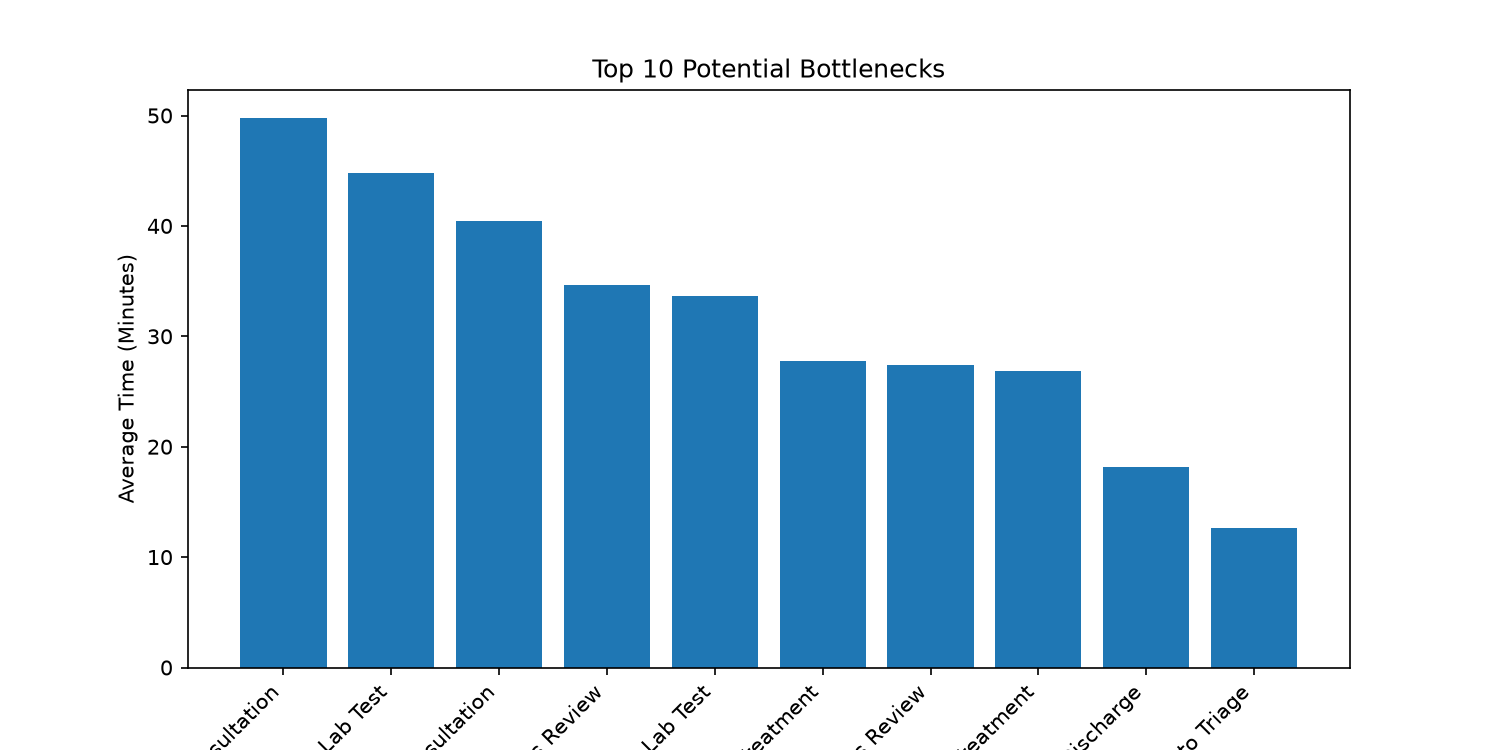
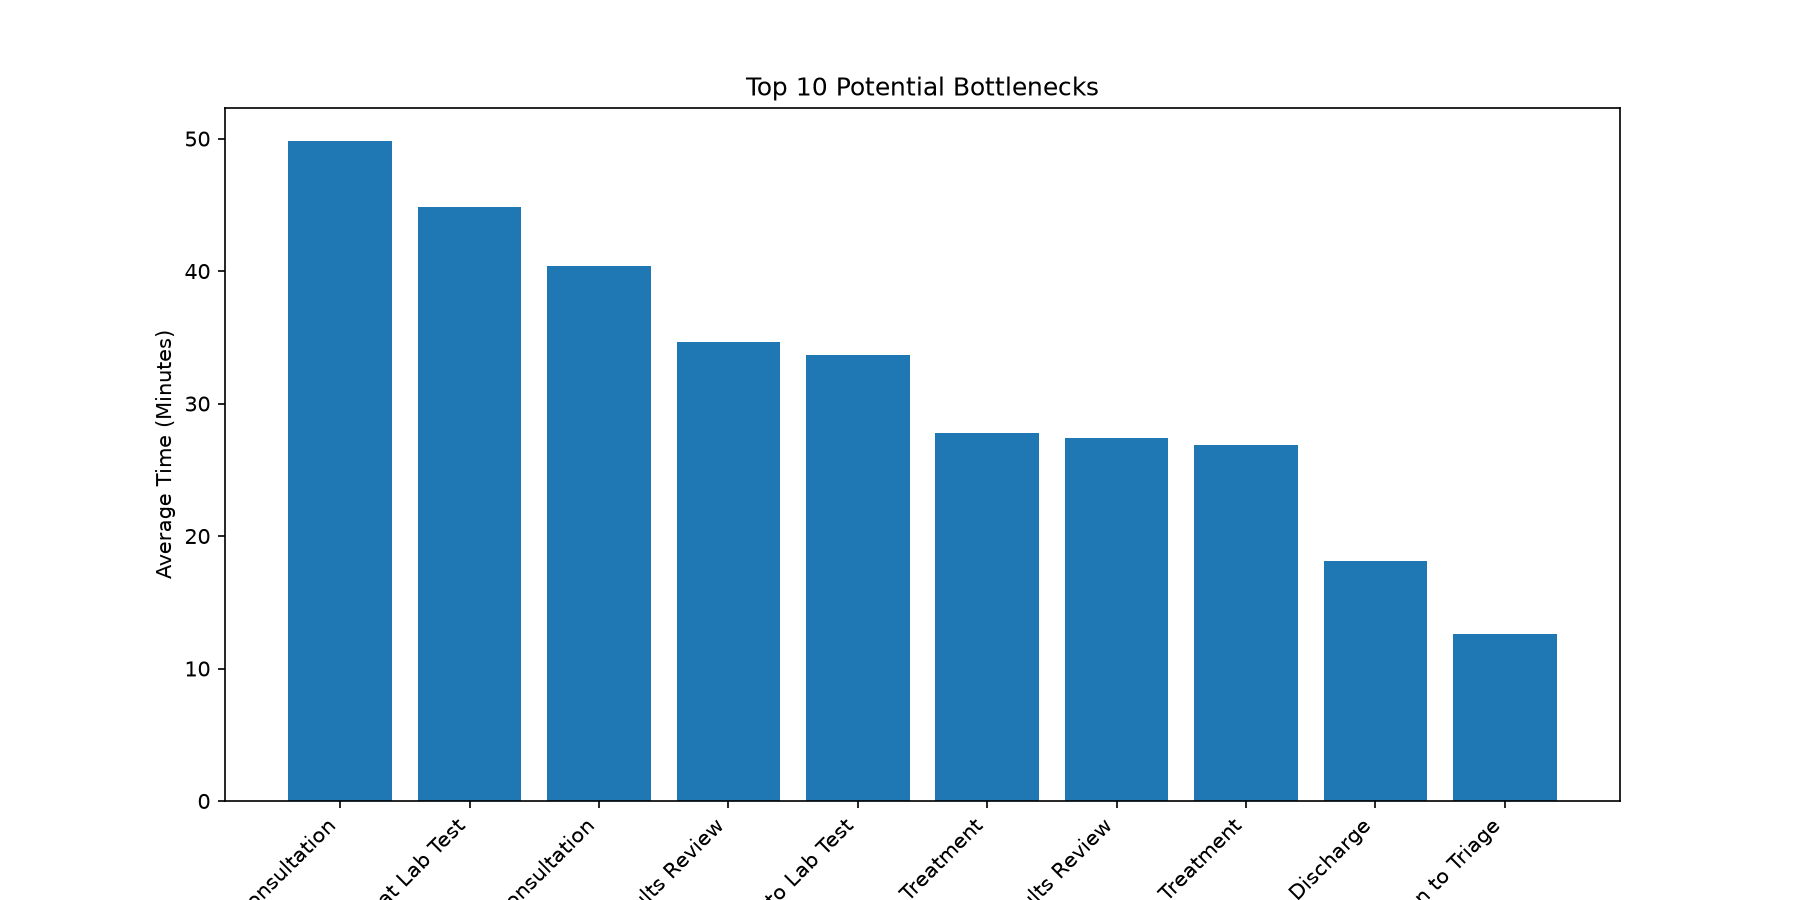
Add process mining bottleneck analysis

diff --git a/process_mining/discover_process.py b/process_mining/discover_process.py
@@ -74,10 +74,10 @@ print(activity_counts)
 
 # Patient activities order
 # ==========================================
-# DAY 2: PROCESS DISCOVERY
+# PROCESS DISCOVERY
 # ==========================================
 
-print("\n========== DAY 2: PROCESS DISCOVERY ==========")
+print("\n==========  PROCESS DISCOVERY ==========")
 
 print("\nPatient activities ka order:")
 
@@ -211,7 +211,7 @@ print(average_times.to_string(index=False))
 
 
 
-# Day 4: Patient Process Map using PM4Py
+#  Patient Process Map using PM4Py
 
 print("\nCreating Patient Process Map...")
 

diff --git a/process_mining/analyze_bottlenecks.py b/process_mining/analyze_bottlenecks.py
@@ -87,14 +87,9 @@ print("\nBottleneck analysis completed!")
 
 
 
-
-
 import matplotlib
 matplotlib.rcParams["font.family"] = "DejaVu Sans"
 matplotlib.rcParams["font.enable_last_resort"] = False
-
-
-
 
 import matplotlib.pyplot as plt
 
@@ -103,7 +98,7 @@ import matplotlib.pyplot as plt
 top = average_times.head(10)
 
 # Create chart
-plt.figure(figsize=(10, 5))
+plt.figure(figsize=(12, 6))
 
 plt.bar(
     range(len(top)),
